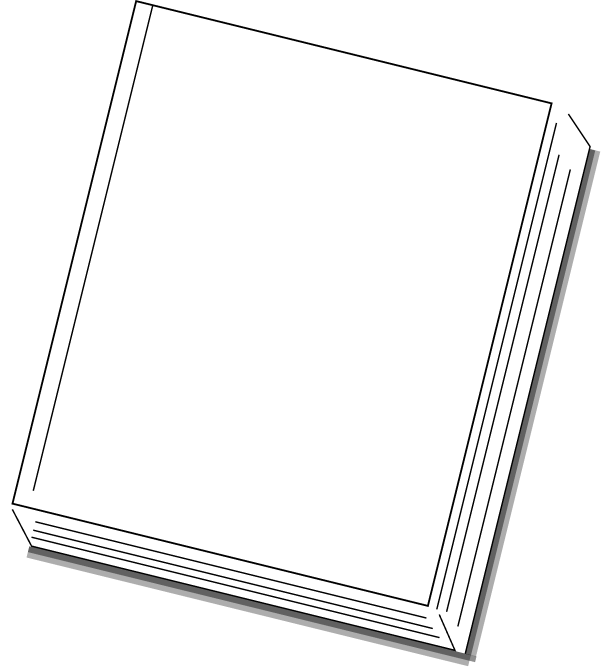
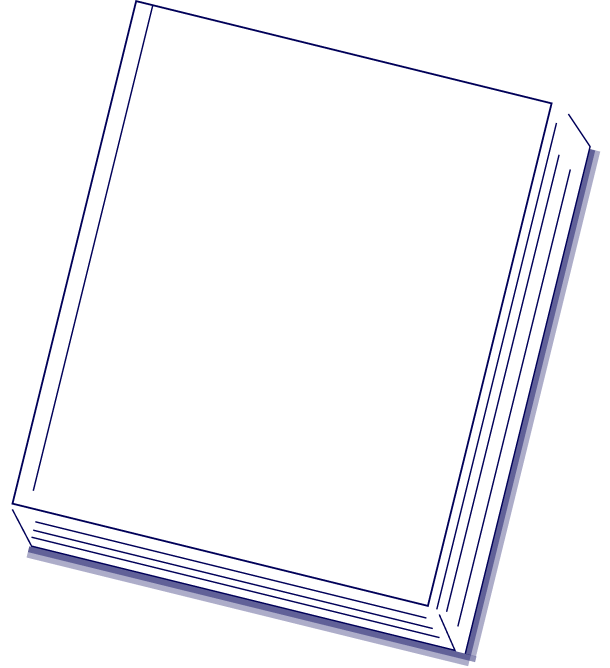
colors

diff --git a/style.css b/style.css
@@ -6,7 +6,7 @@ body {
     -moz-osx-font-smoothing: grayscale; 
     -webkit-text-size-adjust: none;
     /* font-family: courier; */
-    color: #000;
+    color: #000058;
     background-color: yellow;
     padding: 30px;
 }
@@ -34,19 +34,19 @@ h2 {
     font-weight: bold;
     margin: 0;
     margin-bottom: 20px;
-    border-top: 6px double #000;
+    border-top: 6px double #000058;
     padding-top: 10px;
 }
 a {
     font-family: 'Times New Roman', Times, serif;
-    color: #000;
-    text-decoration-color: #000;
+    color: #000058;
+    text-decoration-color: #000058;
     text-decoration-thickness: 2px;
     text-decoration-style: solid; 
     text-underline-offset: 3px;
 }
 .box {
-    border: 2px solid #000;
+    border: 2px solid #000058;
     max-width: max-content;
     padding: 20px;
 }
@@ -60,7 +60,7 @@ form {
     flex-flow: column nowrap;
     gap: 40px;
     max-width: 700px;
-    border: 2px solid #000;
+    border: 2px solid #000058;
     padding: 60px 40px;
     margin: 80px auto;
 }
@@ -87,7 +87,8 @@ form input, form textarea {
     font-family: 'Times New Roman', Times, serif;
     font-size: 40px;
     background-color: transparent;
-    border: 2px solid #000;
+    color: #000058;
+    border: 2px solid #000058;
     padding: 4px;
     outline: 0;
     width: 100%;
@@ -115,9 +116,10 @@ nav a {
     align-items: center;
     text-align: center;
     font-size: 40px;
-    color: #000;
+    color: #000058;
+    color: #000058058;
     font-weight: normal;
-    text-decoration-color: #000;
+    text-decoration-color: #000058058;
     text-decoration-thickness: 2px;
     text-decoration-style: solid; 
     text-underline-offset: 4px;

diff --git a/draft.html b/draft.html
@@ -36,7 +36,9 @@
 
         <br>
 
-        <img src="images/book.png" alt="" id="book-icon"><br>
+        <div>
+            <img src="images/book.png" alt="" id="book-icon">
+        </div>
 
         <h1>Internet Phone Book</h1>
 
@@ -100,7 +102,7 @@
                 <br>
                 <i>1983 – 2024</i>
             </p>
-            <img src="images/book.png" alt="" id="book-icon">
+            <img src="images/phone.png" id="book-icon" style="width: 400px">
         </footer>
     </main>
 </body>
